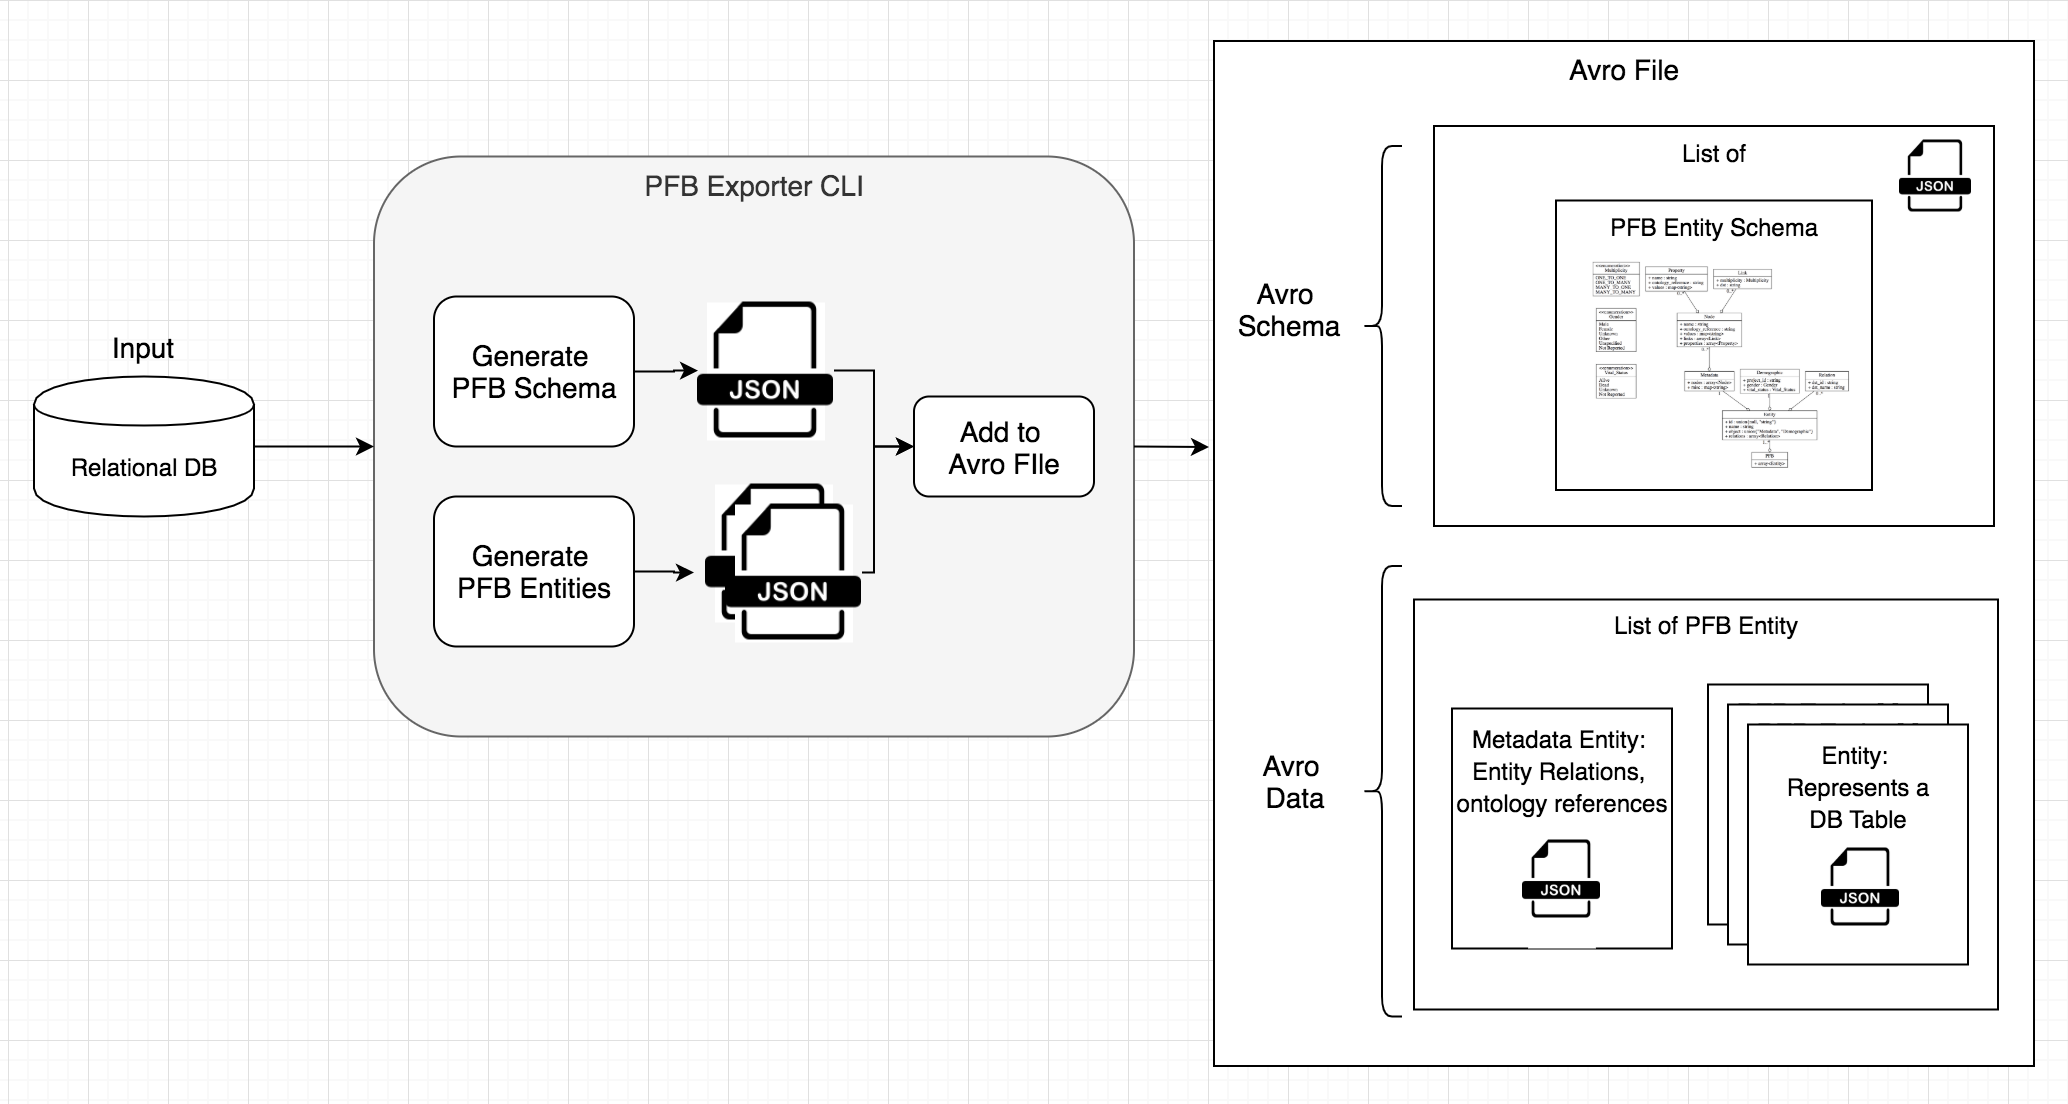
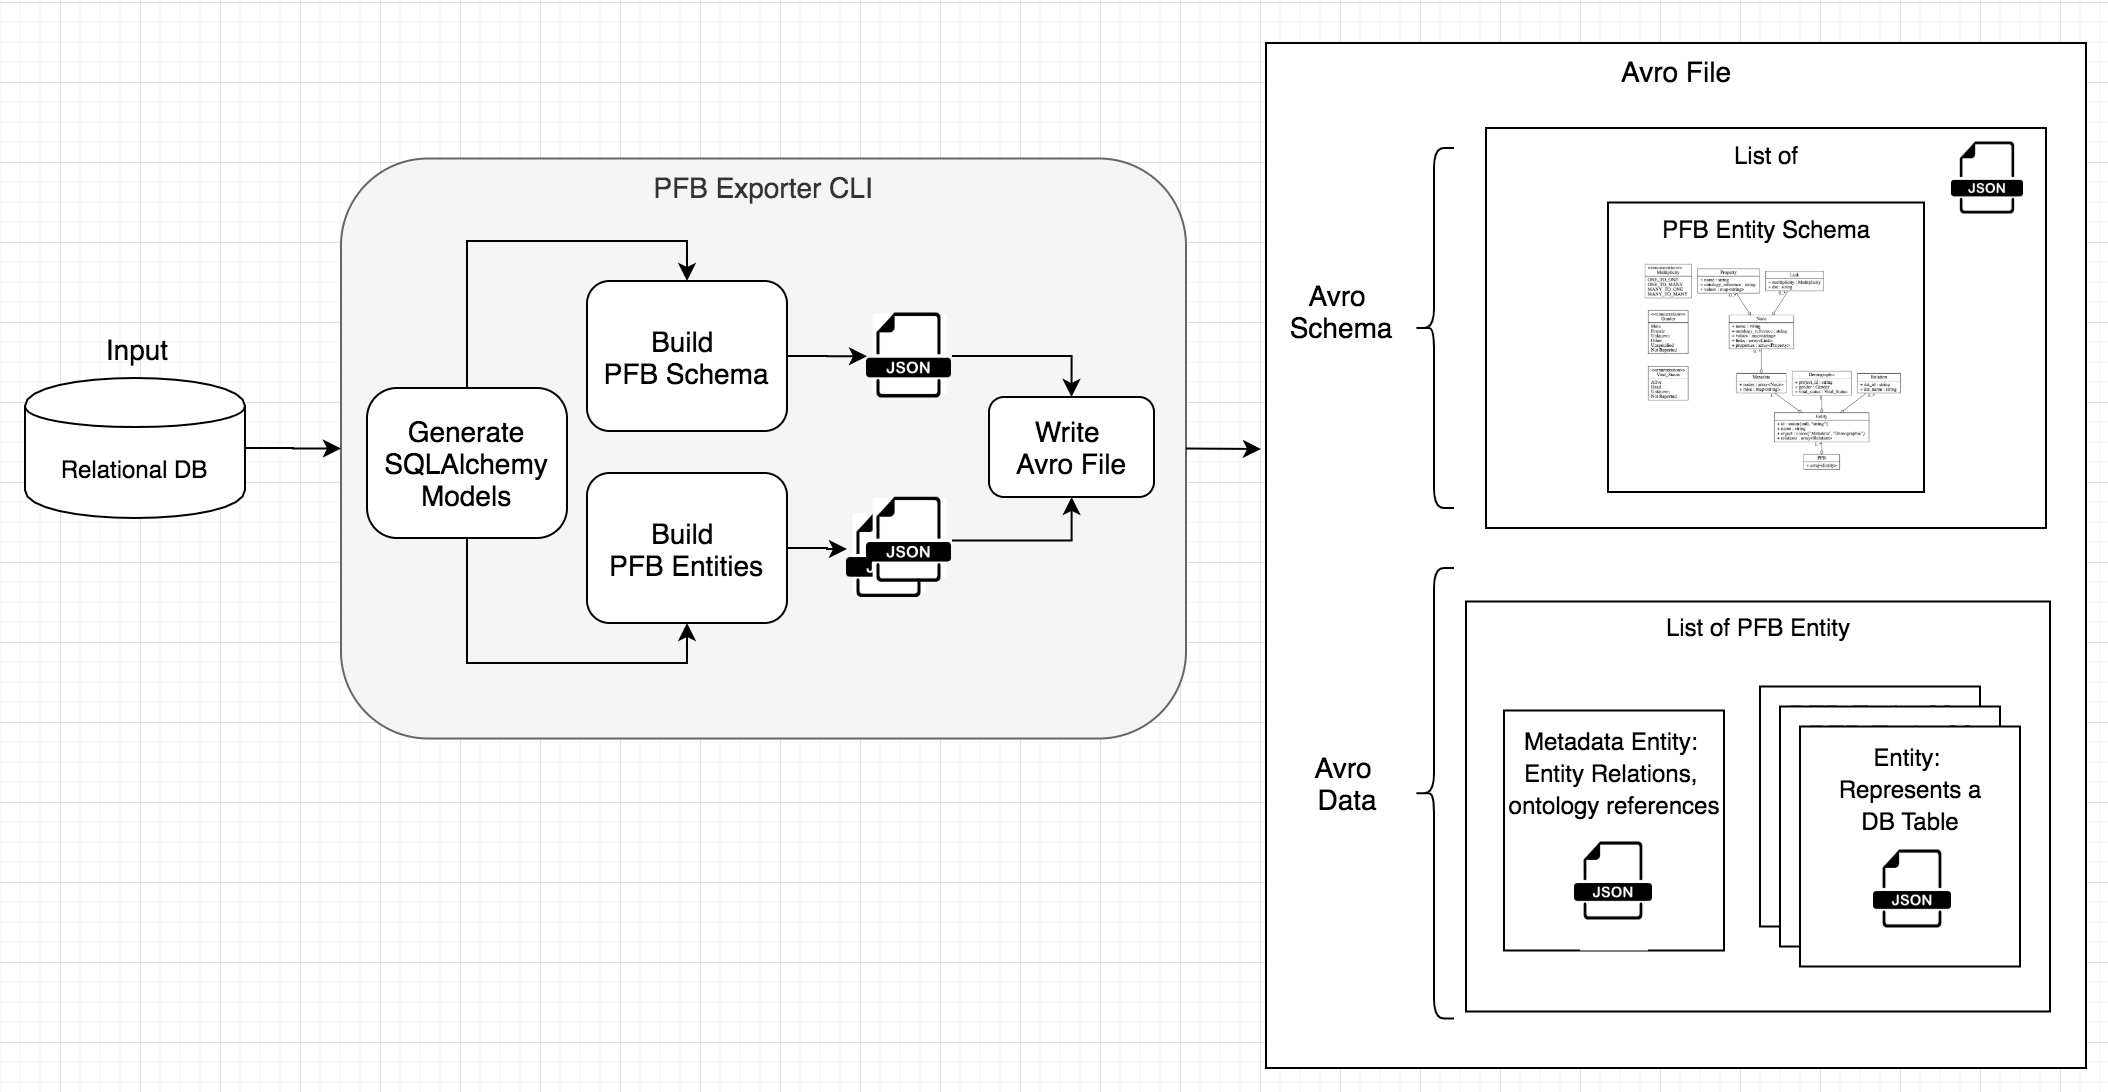
:memo: Update README

diff --git a/tests/test_pfbe.py b/tests/test_pfbe.py
@@ -66,8 +66,6 @@ def test_validate_pfb_build():
 
     # Compare with original
     for i, file_record in enumerate(records_from_file):
-        # if file_record['name'] == 'Metadata':
-        #     continue
         print(f'Testing {file_record["name"]}')
         source_record = source_records[file_record['name']][file_record['id']]
         source_obj = source_record['object'][1]

diff --git a/README.md b/README.md
@@ -3,7 +3,8 @@
 Transform and export data from a relational database into a
 PFB (Portable Format for Bioinformatics) file.
 
-A PFB file is special kind of Avro file, suitable for capturing and reconstructing relational data. Read Background for more information.
+A PFB file is special kind of Avro file, suitable for capturing and
+reconstructing relational data. Read Background for more information.
 
 ## Quickstart
 
@@ -18,11 +19,12 @@ $ pfbe -h
 
 Try it out:
 
-**🚧 Does not generate a PFB yet 🚧**
-
 ```shell
-$ pfbe export tests/data/input -m tests/data/input -o tests/data/pfb_export
+$ pfbe export tests/data/input -m tests/data/models.py -o tests/data/pfb_export
 ```
+## Supported Databases
+Theoretically, any of the databases supported by SQLAlchemy but this
+has only been tested on a PostgreSQL database
 
 ## Developers
 
@@ -45,20 +47,18 @@ Read more about [Avro](https://Avro.apache.org/docs/current/spec.html).
 A PFB file is special kind of Avro file, suitable for capturing and
 reconstructing biomedical relational data.
 
-A PFB file is an Avro file with a particular schema that represents a graph
-structure (adjacency list). We call this schema the
+A PFB file is an Avro file with a particular Avro schema that represents a
+relational database. We call this schema the
 [PFB Schema](https://github.com/uc-cdis/pypfb/tree/master/doc)
 
-The graph structure consists of a list of JSON objects called PFB Entity
-objects. Each PFB Entity conforms to the PFB Schema. A PFB Entity has
-attributes + values, relations to other PFB Entities, and ontology references.
-The ontology references can be attached to the PFB Entity and also to each
-attribute of the PFB Entity.
+The data in a PFB file contains a list of JSON objects called PFB Entity
+objects. There are 2 types of PFB Entities. One (Metadata) captures
+information about the relational database and the other (Table Row) captures
+a row of data from a particular table in the database.
 
 The data records in a PFB file are produced by transforming the original data
-from a relational database into PFB Entity objects.
-
-![How PFB Exporter Works](docs/source/_static/images/pfb-exporter.png)
+from a relational database into PFB Entity objects. Each PFB Entity object
+conforms to its Avro schema.
 
 ## Vanilla Avro vs PFB
 Let's say a client receives an Avro file. It reads in the Avro data.
@@ -71,3 +71,21 @@ Now what happens if the client wants to reconstruct a relational database
 from the data? How does it know what tables to create, and what the
 relationships are between those tables? Which relationships are
 required vs not? This is one of the problems PFB addresses.
+
+## How PFB Exporter CLI Works
+
+![How PFB Exporter Works](docs/source/_static/images/pfb-exporter.png)  
+
+### PFB File Creation
+
+1. Create the Avro schemas PFB Entities and the PFB File
+2. Transform the JSON objects representing rows of data from the relational
+   database into PFB Entities
+3. Add the Avro schemas to the PFB Avro file
+4. Add the PFB Entities to the Avro file
+
+### PFB Schema Creation
+The PFB File schema is created from SQLAlchemy declarative base classes
+in a file or directory. If the classes are not provided, they are generated
+by inspecting the database's schema using the sqlacodegen
+(https://github.com/agronholm/sqlacodegen) library.
